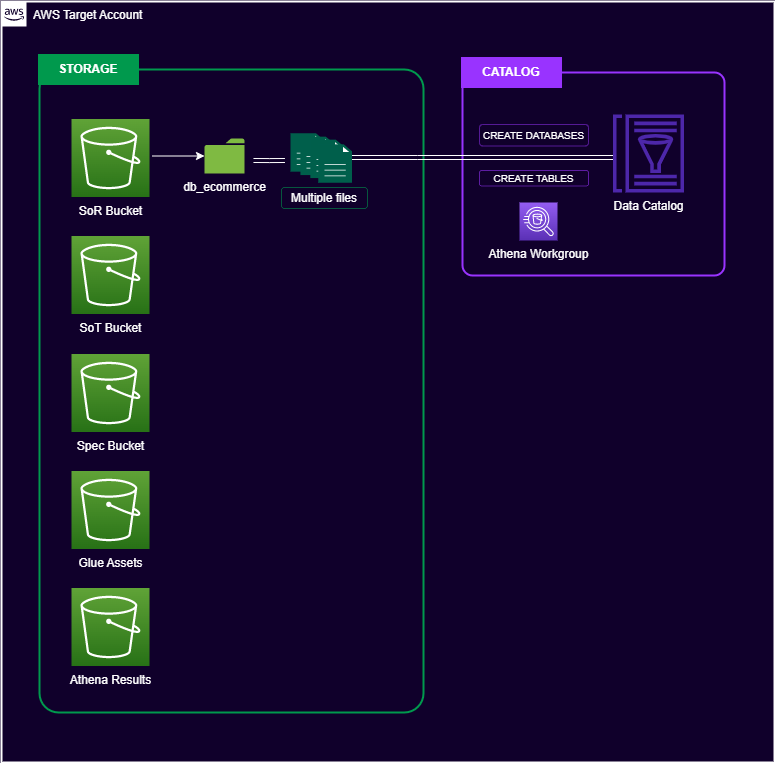
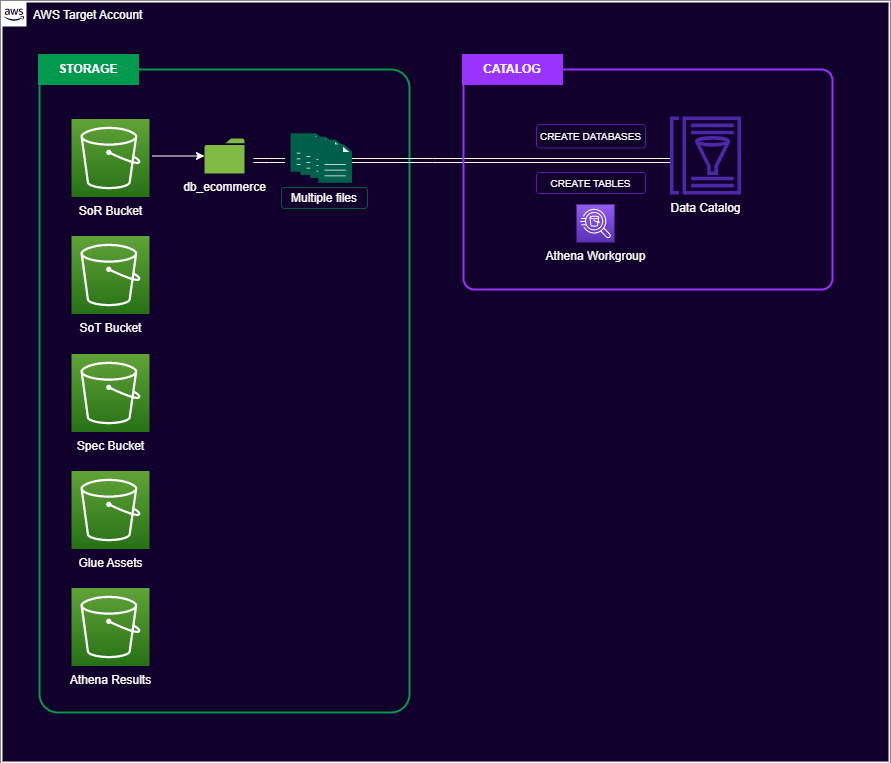
docs: updating story diagrams (#61)

Changed region(s): [[0.031, 0.0603, 0.96, 0.9345], [0.991, 0.0, 1.0, 1.0], [0.0, 0.0, 0.1858, 0.0301]]

diff --git a/docs/mkdocs/story.md b/docs/mkdocs/story.md
@@ -71,4 +71,19 @@ By the way, as Athena proved to be a good service do start looking at catalogged
 
 And now my diagram was like:
 
-[![Storage resources with data](https://raw.githubusercontent.com/ThiagoPanini/terraglue/feature/terraglue-refactor/docs/assets/imgs/project-story/terraglue-diagram-resources-data.png)](https://raw.githubusercontent.com/ThiagoPanini/terraglue/feature/terraglue-refactor/docs/assets/imgs/architecture/terraglue-diagram-resources-data.png)
+[![Catalog process using Data Catalog and Athena](https://raw.githubusercontent.com/ThiagoPanini/terraglue/feature/terraglue-refactor/docs/assets/imgs/project-story/terraglue-diagram-resources-catalog.png)](https://raw.githubusercontent.com/ThiagoPanini/terraglue/feature/terraglue-refactor/docs/assets/imgs/architecture/terraglue-diagram-resources-catalog.png)
+
+## IAM Roles and Policies
+
+A huge milestone was reached at that moment. I had a storage structured, I had data to be used and I had all needed metadata information already catalogged on Data Catalog.
+
+???+ question "What was missing to start creating Glue jobs?"
+    IAM roles and policies. Simple as that.
+
+Here I must tell you that that wasn't an easy step to be completed. First of all, it was a little bit difficult to understand all the permission actions needed for running Glue jobs on AWS, logging steps on CloudWatch and all other things.
+
+But nothing as a good study and research couldn't solve. And that was the case: I started looking at docs and I was finally able to create a set of policies for a good IAM role to be assumed by my future and first Glue job on AWS.
+
+And, once again, I could add more pieces on my diagram:
+
+[![IAM role and policies](https://raw.githubusercontent.com/ThiagoPanini/terraglue/feature/terraglue-refactor/docs/assets/imgs/project-story/terraglue-diagram-resources-iam.png)](https://raw.githubusercontent.com/ThiagoPanini/terraglue/feature/terraglue-refactor/docs/assets/imgs/architecture/terraglue-diagram-resources-iam.png)
